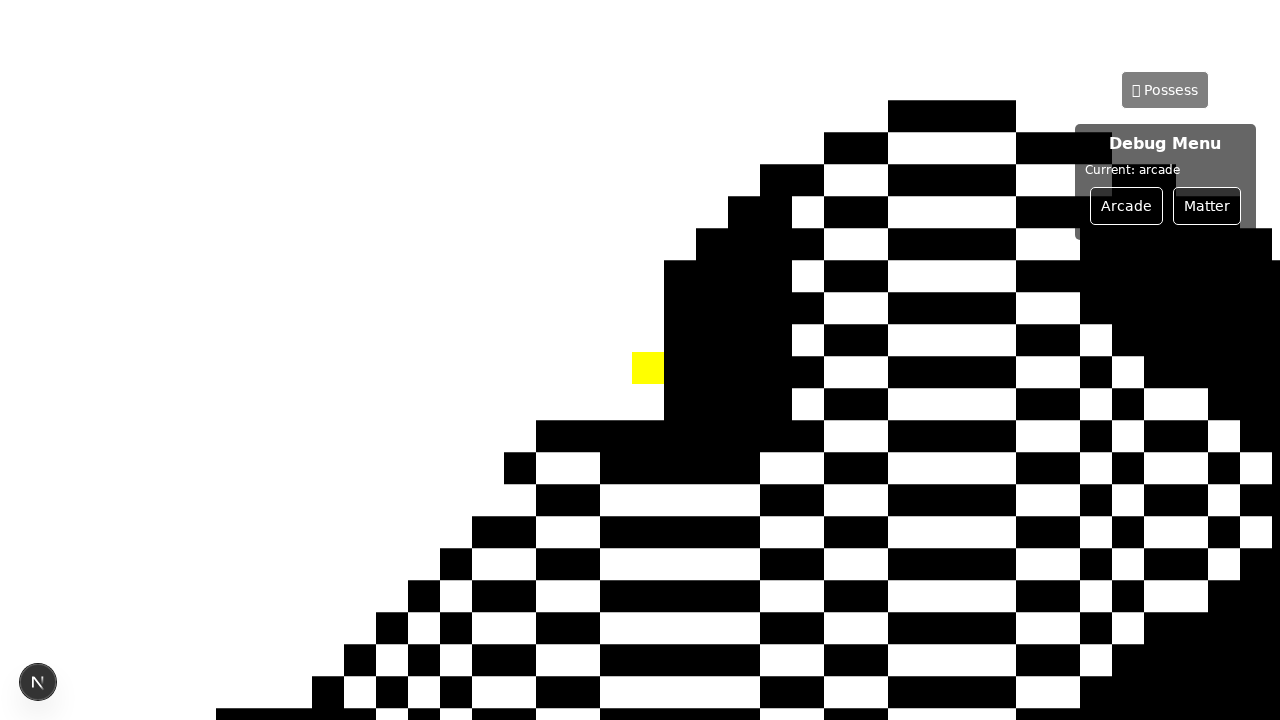
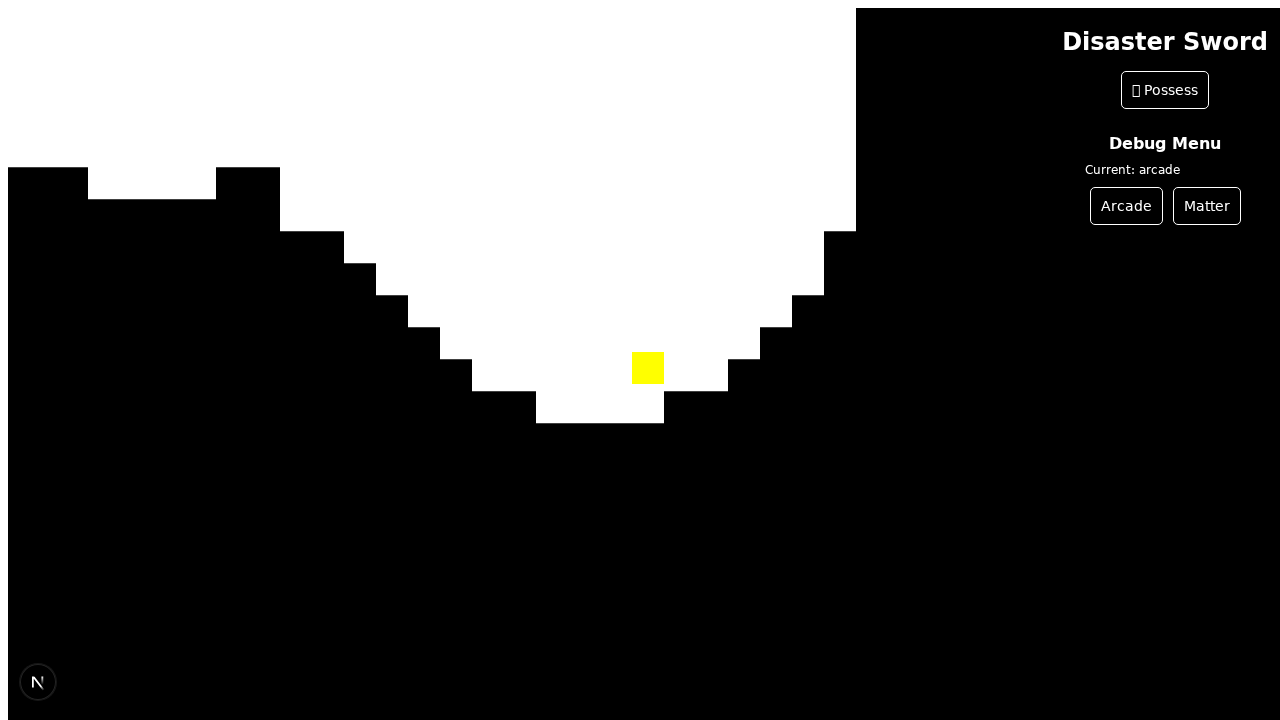
fix: Adjust cave generation and add surface entrances
This commit addresses feedback on the initial cave generation implementation.

- The noise frequency has been lowered to create larger, more contiguous cave structures and eliminate the "checkerboard" artifacting caused by high-frequency noise.
- The constraint preventing caves from connecting to the surface has been removed, allowing for natural cave entrances to form on the terrain.

diff --git a/simulation/src/game/LevelGenerator_Arcade.js b/simulation/src/game/LevelGenerator_Arcade.js
@@ -47,12 +47,12 @@ export default class LevelGenerator {
     }
 
     // --- 2D Noise for Cave Generation ---
-    const frequency = 0.05; // Controls the scale of the caves.
+    const frequency = 0.02; // Lower frequency for larger caves
     const cave_threshold = 0.5; // Determines the density of caves.
 
     for (let x = 0; x < chunkSize; x++) {
       for (let y = 0; y < chunkSize; y++) {
-        // Only try to carve caves below the surface
+        // Only try to carve caves in existing solid ground
         if (chunkGrid.getTile(x, y) === 1) {
           const global_x = (chunkX * chunkSize) + x;
           const global_y = (chunkY * chunkSize) + y;
@@ -61,10 +61,8 @@ export default class LevelGenerator {
           let noise_value = this.caveNoise(global_x * frequency, global_y * frequency);
           noise_value = (noise_value + 1) / 2;
 
-          // We also check that we are not carving the top-most layer of the terrain
-          const isSurface = (y > 0 && chunkGrid.getTile(x, y - 1) === 0);
-
-          if (noise_value < cave_threshold && !isSurface) {
+          // If noise value is below threshold, carve out the tile
+          if (noise_value < cave_threshold) {
             chunkGrid.setTile(x, y, 0); // 0 represents an empty tile (air)
           }
         }
@@ -142,11 +140,12 @@ export default class LevelGenerator {
     }
 
     // --- 2D Noise for Cave Generation ---
-    const frequency = 0.05; // Controls the scale of the caves.
+    const frequency = 0.02; // Lower frequency for larger caves
     const cave_threshold = 0.5; // Determines the density of caves.
 
     for (let x = 0; x < chunkSize; x++) {
       for (let y = 0; y < chunkSize; y++) {
+        // Only try to carve caves in existing solid ground
         if (chunkGrid.getTile(x, y) === 1) {
           const global_x = (chunkX * chunkSize) + x;
           const global_y = (chunkY * chunkSize) + y;
@@ -155,8 +154,8 @@ export default class LevelGenerator {
           // Normalize to 0-1
           noise_value = (noise_value + 1) / 2;
 
-          const isSurface = (y > 0 && chunkGrid.getTile(x, y - 1) === 0);
-          if (noise_value < cave_threshold && !isSurface) {
+          // If noise value is below threshold, carve out the tile
+          if (noise_value < cave_threshold) {
             chunkGrid.setTile(x, y, 0);
           }
         }
